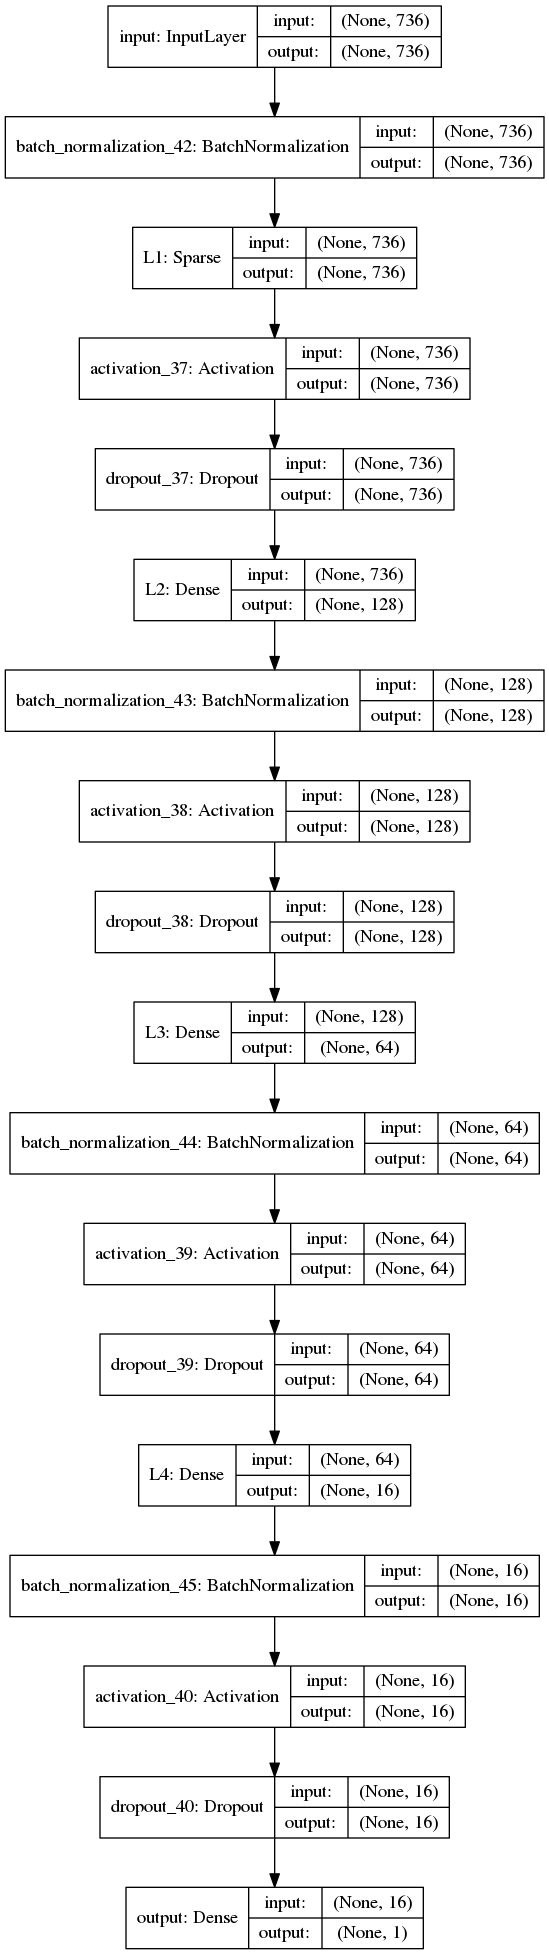
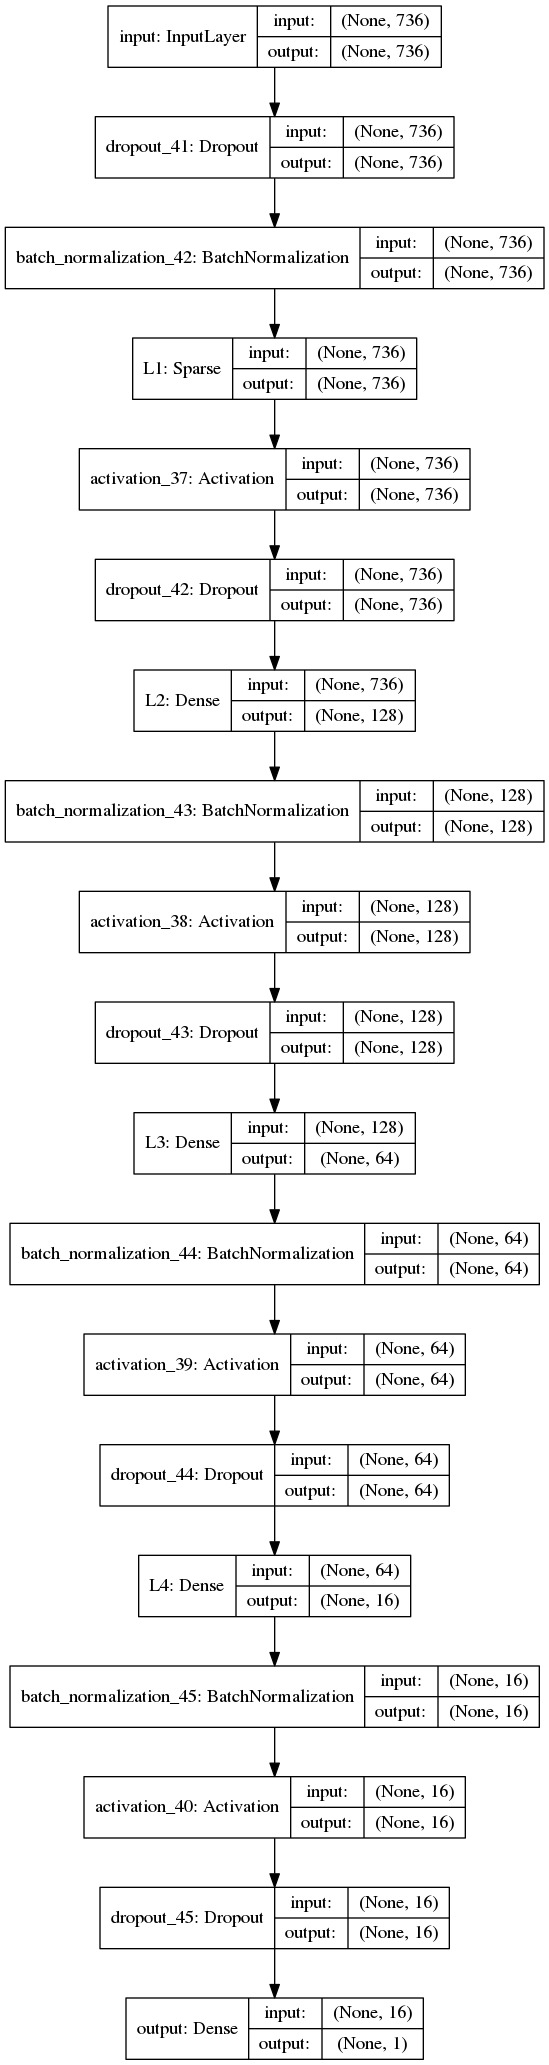
hyperparameters tuning

Changed region(s): [[0.0, 0.0, 1.0, 0.9985], [0.0, 0.0624, 0.0929, 0.0936], [0.031, 0.1248, 0.0619, 0.156]]

diff --git a/plot_curve.py b/plot_curve.py
@@ -46,7 +46,6 @@ def plot_beauty():
 
     colors = sns.color_palette("Set1", n_colors=8, desat=.5)
 
-
     cv = StratifiedKFold(n_splits=5, random_state=0)
     for train_idx, test_idx in cv.split(X, y):
         X_train, X_test, y_train, y_test = X.ix[train_idx], X.ix[test_idx], y[train_idx], y[test_idx]
@@ -161,25 +160,25 @@ def plot_beauty():
     mean_tpr[-1] = 1.0
     mean_auc = auc(mean_fpr, mean_tpr)
     std_auc = np.std(dfn_aucs)
-    axes[0].plot(mean_fpr, mean_tpr, color='green',
-                 label=r'DFN (%0.3f $\pm$ %0.3f)' % (mean_auc, std_auc),
-                 lw=2, alpha=.8)
+    # axes[0].plot(mean_fpr, mean_tpr, color='green',
+    #              label=r'DFN (%0.3f $\pm$ %0.3f)' % (mean_auc, std_auc),
+    #              lw=2, alpha=.8)
 
     precision, recall, _ = precision_recall_curve(y_true, dfn_y_score)
     ap = round(average_precision_score(y_true, dfn_y_score), 3)
-    axes[1].plot(recall, precision, label='DFN: ' + str(ap), color='green')
+    # axes[1].plot(recall, precision, label='DFN: ' + str(ap), color='green')
     ################Random Forest################################
     mean_tpr = np.mean(rf_tprs, axis=0)
     mean_tpr[-1] = 1.0
     mean_auc = auc(mean_fpr, mean_tpr)
     std_auc = np.std(rf_aucs)
-    axes[0].plot(mean_fpr, mean_tpr, color='blue',
+    axes[0].plot(mean_fpr, mean_tpr, color='green',
                  label=r'RF (%0.3f $\pm$ %0.3f)' % (mean_auc, std_auc),
                  lw=2, alpha=.8)
 
     precision, recall, _ = precision_recall_curve(y_true, rf_y_score)
     ap = round(average_precision_score(y_true, rf_y_score), 3)
-    axes[1].plot(recall, precision, label='RF: ' + str(ap), color='blue')
+    axes[1].plot(recall, precision, label='RF: ' + str(ap), color='green')
     ##############################################################
 
     ################SVM################################
@@ -187,13 +186,13 @@ def plot_beauty():
     mean_tpr[-1] = 1.0
     mean_auc = auc(mean_fpr, mean_tpr)
     std_auc = np.std(svm_aucs)
-    axes[0].plot(mean_fpr, mean_tpr, color=colors[4],
+    axes[0].plot(mean_fpr, mean_tpr, color='blue',
                  label=r'SVM (%0.3f $\pm$ %0.3f)' % (mean_auc, std_auc),
                  lw=2, alpha=.8)
 
     precision, recall, _ = precision_recall_curve(y_true, svm_y_score)
     ap = round(average_precision_score(y_true, svm_y_score), 3)
-    axes[1].plot(recall, precision, label='SVM: ' + str(ap), color=colors[4])
+    axes[1].plot(recall, precision, label='SVM: ' + str(ap), color='blue')
 
     print("Test Accuracy is ", np.mean(gedfn_accuracy_list), np.mean(gemlp_accuracy_list), np.mean(dfn_accuracy_list),
           np.mean(rf_accuracy_list), np.mean(svm_accuracy_list))

diff --git a/keras_gemlp.py b/keras_gemlp.py
@@ -15,9 +15,10 @@ from sparse_layer import Sparse
 
 def gemlp(x_train, x_test, y_train, y_test, left, right):
     input = Input(shape=(np.shape(x_train)[1],), name='input')
-    L1 = BatchNormalization()(input)
+    in_put = Dropout(0.1)(input)
+    L1 = BatchNormalization()(in_put)
     L1 = Sparse(adjacency_mat=right,name='L1')(L1)
-    # L1 = BatchNormalization()(L1)
+    # L1 = BatchNormalization()(L1) # don't use!
     L1 = Activation('relu')(L1)
     # L1 = LeakyReLU(alpha=0.3)(L1)
     L1 = Dropout(0.2)(L1)
@@ -26,19 +27,19 @@ def gemlp(x_train, x_test, y_train, y_test, left, right):
     L2 = BatchNormalization()(L2)
     L2 = Activation('relu')(L2)
     # L2 = LeakyReLU(alpha=0.3)(L2)
-    L2 = Dropout(0.5)(L2)
+    L2 = Dropout(0.2)(L2)
 
     L3 = Dense(64,name='L3')(L2)
     L3 = BatchNormalization()(L3)
     L3 = Activation('relu')(L3)
     # L3 = LeakyReLU(alpha=0.3)(L3)
-    L3 = Dropout(0.5)(L3)
+    L3 = Dropout(0.2)(L3)
 
-    L4 = Dense(16, name='L4')(L3)
+    L4 = Dense(16,name='L4')(L3)
     L4 = BatchNormalization()(L4)
     L4 = Activation('relu')(L4)
     # L4 = LeakyReLU(alpha=0.3)(L4)
-    L4 = Dropout(0.5)(L4)
+    L4 = Dropout(0.2)(L4)
 
     output = Dense(1, activation='sigmoid', name='output')(L4)
 
@@ -54,8 +55,8 @@ def gemlp(x_train, x_test, y_train, y_test, left, right):
 
     earlyStopping = early_stop.LossCallBack(loss=0.1)
     history = model.fit(x_train, y_train, validation_data=(x_test, y_test),
-                        epochs=100, verbose=0,callbacks=[earlyStopping],
-                        batch_size=64)
+                        epochs=150, verbose=1,callbacks=[earlyStopping],
+                        batch_size=32)
 
     test_loss, test_acc = model.evaluate(x_test, y_test)
     #

diff --git a/utils.py b/utils.py
@@ -40,6 +40,10 @@ def load():
     print("merged=" + str(merged_flat_list.count(1)), "sparcc=" + str(sparcc_flat_list.count(1)),
           "spieceasi=" + str(spieceasi_flat_list.count(1)))
 
+    # print(X.values.max())
+    # print(np.min(X.values[np.nonzero(X.values)]))
+    # X[X < 1e-5] = 0
+
     return X, y, sparcc, merged
 
 
@@ -69,7 +73,7 @@ def parse_taxa():
 
 # random forest
 def rf(x_train, x_test, y_train, y_test):
-    rf = RandomForestClassifier(random_state=0, n_estimators=200)
+    rf = RandomForestClassifier(random_state=0, n_estimators=100)
     rf.fit(x_train, y_train)
     y_pred = rf.predict(x_test)
     y_score = rf.predict_proba(x_test)[:, 1]

diff --git a/GEDFN.py b/GEDFN.py
@@ -41,7 +41,7 @@ def gedfn(x_train, x_test, y_train, y_test, left_adj, right_adj):
 
     ## hyper-parameters and settings
     L1 = False
-    L2 = True
+    L2 = False
     learning_rate = 0.001
     training_epochs = 200
     batch_size = 32
